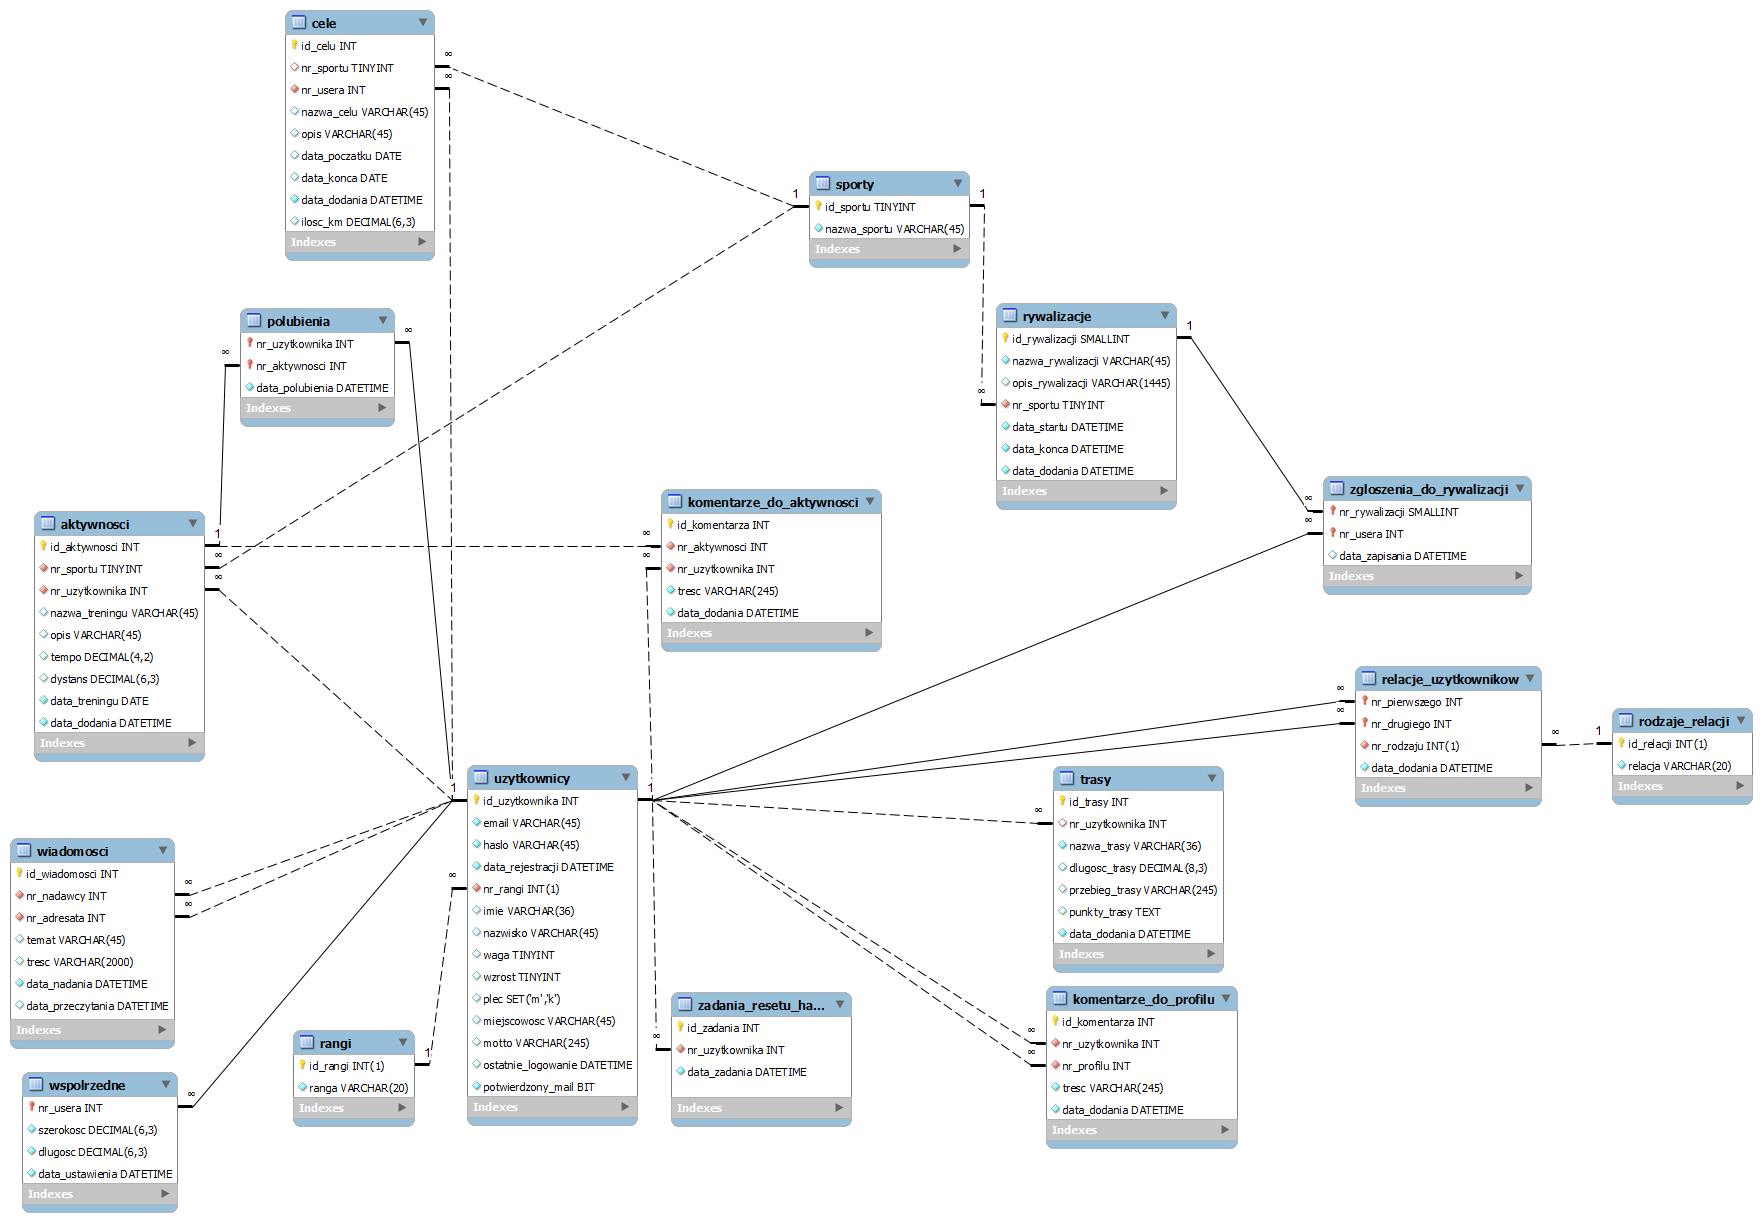
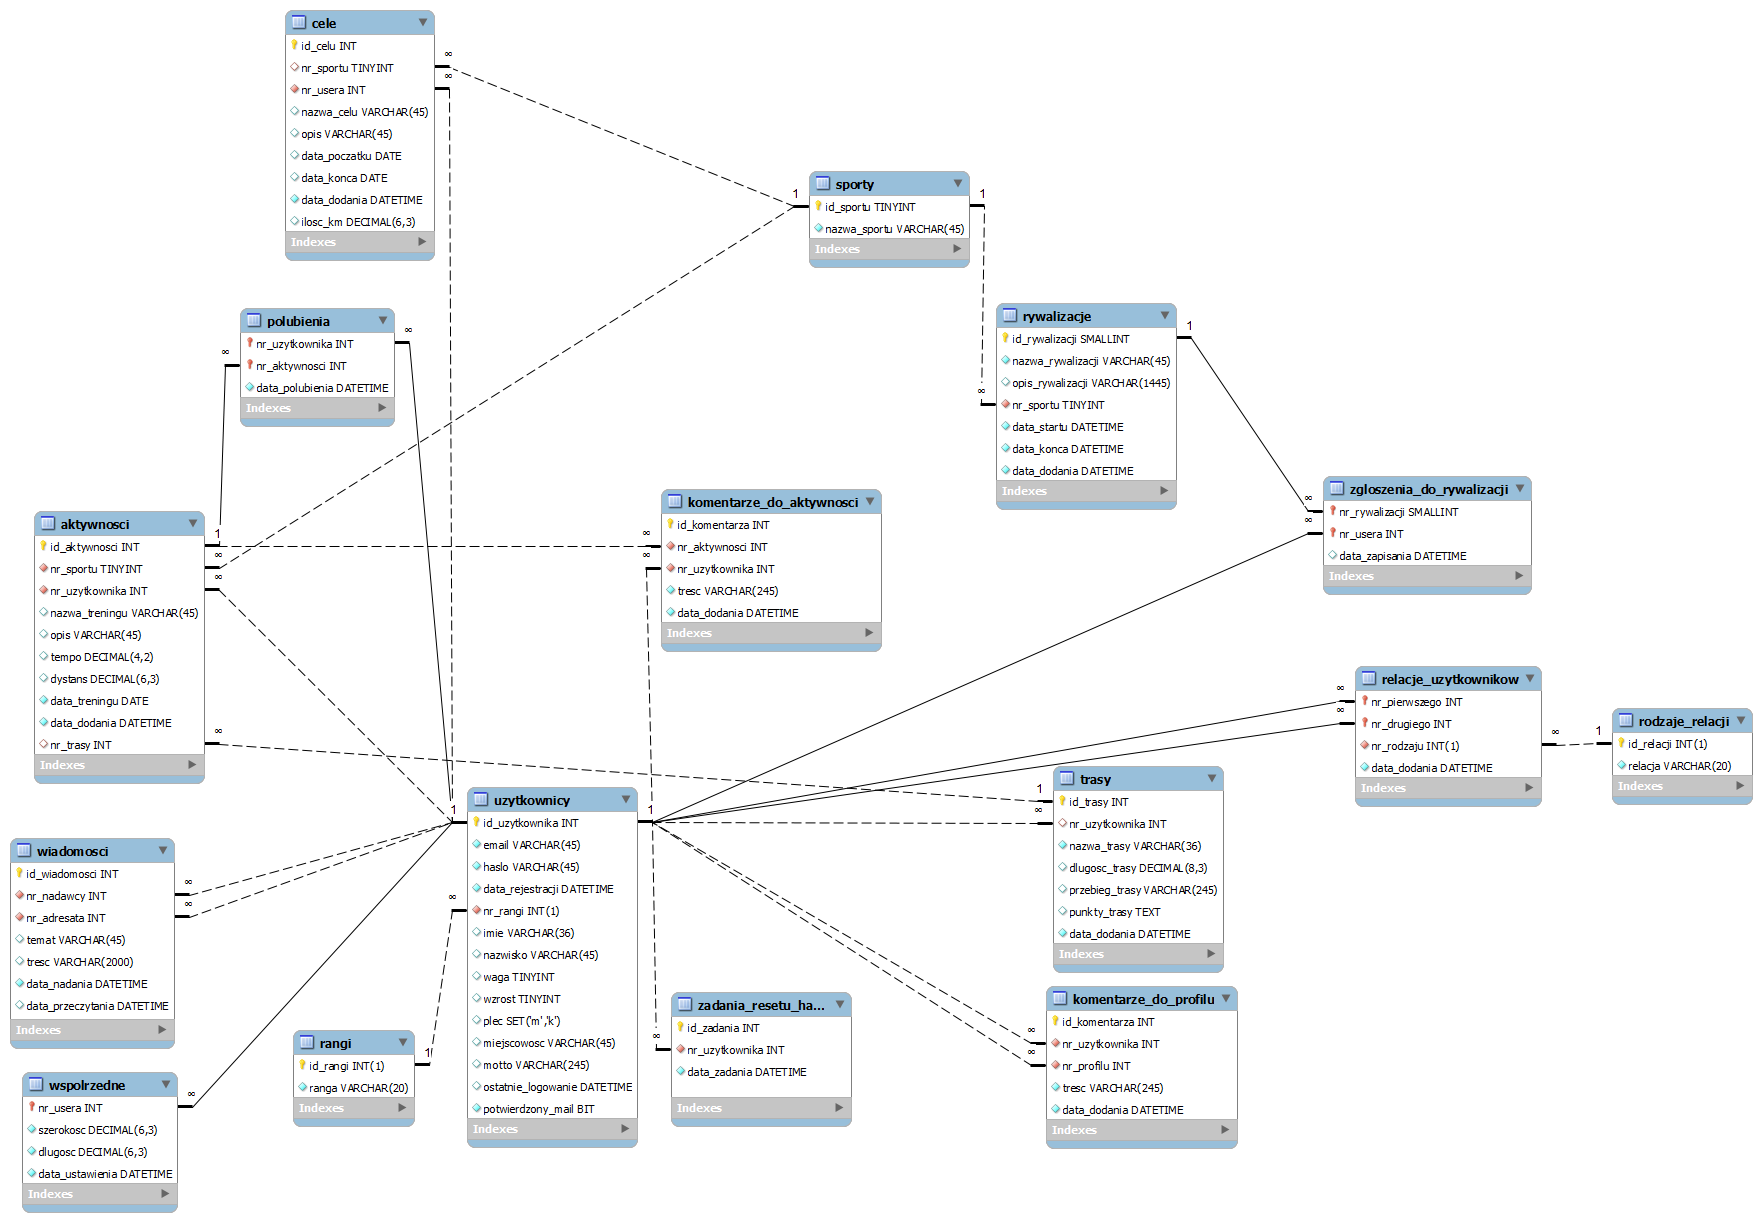
Relacje, chyba już bez zastrzeżeń
+ poprawka w SQL, by móc wiązać aktywności z trasami

diff --git a/Aplikacja/php/classes/my_usersRelations.php b/Aplikacja/php/classes/my_usersRelations.php
@@ -6,7 +6,11 @@
 		{
 			// Zwraca albo nazwę relacji, albo 0 w przypadku braku.
 			// Rodzaje relacji muszą zostać dodane do bazy, wymagane relacje to:
-			// Przyjaciel, Wróg, Rodzina 
+			// Przyjaciel, Wróg;
+			// Zwracane warości: 0, Przyjaciel, Wróg, ZaproszeniePrzychodzace, ZaproszenieWychodzace, Blokowany, Zablokowany
+			// Blokowany - u1 jest blokowany przez u2
+			// Zablokowany - u2 jest blokowany przez u1
+			// Wróg - wzajemna blokada
 			
 			try {
 				$stmt = $this -> pdo -> prepare('
@@ -18,21 +22,62 @@
 				$stmt -> bindValue(':nr_pierwszego', $id_userow['1st'], PDO::PARAM_STR);
 				$stmt -> bindValue(':nr_drugiego', $id_userow['2nd'], PDO::PARAM_STR);
 				$stmt -> execute();
-				if($stmt -> rowCount() == 1) {
-					$row = $stmt -> fetch();
+
+				$row = $stmt -> fetch();
 
 				$stmt -> closeCursor();
 				unset($stmt);
 
+				$stmt = $this -> pdo -> prepare('
+									SELECT relacja FROM relacje_uzytkownikow, rodzaje_relacji 
+									WHERE	id_relacji LIKE BINARY  nr_rodzaju AND 
+										nr_pierwszego LIKE BINARY :nr_drugiego AND 
+										nr_drugiego LIKE BINARY :nr_pierwszego'
+								);
+				$stmt -> bindValue(':nr_pierwszego', $id_userow['1st'], PDO::PARAM_STR);
+				$stmt -> bindValue(':nr_drugiego', $id_userow['2nd'], PDO::PARAM_STR);
+				$stmt -> execute();
+
+				$row2 = $stmt -> fetch();
+
+				$stmt -> closeCursor();
+				unset($stmt);
+
+				if(isset($row['relacja']) && isset($row2['relacja'])){
+					// relacja jest ustawiona u dwóch userów
+					// mogą być wrogami, albo przyjaciółmi
+					
+					if($row['relacja'] == $row2['relacja'])
 					return $row['relacja'];
 				}
-				else {
-				$stmt -> closeCursor();
-				unset($stmt);
-					return 0; // brak relacji
+				else if(isset($row['relacja']))
+				{
+					switch($row['relacja'])
+					{
+						case "Przyjaciel":
+							return "ZaproszenieWychodzace";
+						break;
+						case "Wróg":
+							return "Blokowany";
+						break;
+					}
 				}
-				
+				else if(isset($row2['relacja']))
+				{
+					switch($row2['relacja'])
+					{
+						case "Przyjaciel":
+							return "ZaproszeniePrzychodzace";
+						break;
+						case "Wróg":
+							return "Zablokowany";
+						break;
+					}
+				}
 
+				
+				return 0;
+				
 				}
 				catch(PDOException $e) {
 					echo '<p>Wystąpił błąd biblioteki PDO</p>';
@@ -64,13 +109,13 @@
 			// wzajemne relacje, więc Przyjaciele i wrogowie
 			if($relacja == "Przyjaciel" || $relacja == "Wrog")
 				$stmt = $this -> pdo -> prepare('
-								SELECT rel2.`nr_drugiego`
+								SELECT rel2.`nr_pierwszego`
 								FROM 	relacje_uzytkownikow AS rel1
 								RIGHT JOIN relacje_uzytkownikow AS rel2 
 								ON 	rel1.`nr_pierwszego` = rel2.`nr_drugiego`
 								WHERE 	rel1.`nr_pierwszego` = rel2.`nr_drugiego` AND 
 									rel1.`nr_drugiego` = rel2.`nr_pierwszego` AND 
-									rel1.`nr_pierwszego` NOT LIKE BINARY :nr_usera AND 
+									rel1.`nr_pierwszego` LIKE BINARY :nr_usera AND 
 									rel1.nr_rodzaju = (SELECT id_relacji
 										FROM rodzaje_relacji
 										WHERE relacja LIKE BINARY :relacja)
@@ -105,7 +150,7 @@
 										WHERE   rel.nr_rodzaju = (SELECT id_relacji
 												FROM rodzaje_relacji
 												WHERE relacja LIKE BINARY :relacja) AND
-											rel2.nr_drugiego = rel.nr_pierwszego    ) 
+											rel2.nr_drugiego = rel.nr_pierwszego    
 										)');
 
 		
@@ -136,22 +181,29 @@
 	
 		function ustaw_relacje($id_userow, $relacja)
 		{
-			$id_userow['1st'] > $id_userow['2nd'] ? list($id_userow['1st'],$id_userow['2nd']) = array($id_userow['2nd'], $id_userow['1st']) : "";
 			try {
-
-if($relacja == "Odblokuj" || $relacja == "Usun_znajomego") {
-				$stmt = $this -> pdo -> prepare('DELETE FROM relacje_uzytkownikow WHERE nr_pierwszego LIKE BINARY :nr_usera AND nr_drugiego LIKE BINARY :nr_drugiego');
+				if($relacja == "Usun_znajomego" || $relacja == "Odrzuc_zaproszenie") {
+				$stmt = $this -> pdo -> prepare('DELETE FROM relacje_uzytkownikow WHERE (nr_pierwszego LIKE BINARY :nr_usera AND nr_drugiego LIKE BINARY :nr_drugiego) OR (nr_pierwszego LIKE BINARY :nr_drugiego AND nr_drugiego LIKE BINARY :nr_usera)');
 				$stmt -> bindValue(':nr_usera', $id_userow['1st'], PDO::PARAM_STR);
 				$stmt -> bindValue(':nr_drugiego', $id_userow['2nd'], PDO::PARAM_STR);
 				$stmt -> execute();
 
 				$stmt -> closeCursor();
 				unset($stmt);				
-				if($relacja == "Odblokuj")	return 2;
-				else return 3;
-}
+				return $relacja == "Usun_znajomego" ? 3 : 4;
+				}
+				
 
+		if($relacja == "Odblokuj"){
+				$stmt = $this -> pdo -> prepare('DELETE FROM relacje_uzytkownikow WHERE (nr_pierwszego LIKE BINARY :nr_usera AND nr_drugiego LIKE BINARY :nr_drugiego)');
+				$stmt -> bindValue(':nr_usera', $id_userow['1st'], PDO::PARAM_STR);
+				$stmt -> bindValue(':nr_drugiego', $id_userow['2nd'], PDO::PARAM_STR);
+				$stmt -> execute();
 
+				$stmt -> closeCursor();
+				unset($stmt);
+				return 2;
+				}				
 
 $stmt = $this -> pdo -> prepare('SELECT id_relacji FROM rodzaje_relacji WHERE relacja LIKE BINARY :relacja');
 				$stmt -> bindValue(':relacja', $relacja, PDO::PARAM_STR);
@@ -181,6 +233,42 @@ $stmt = $this -> pdo -> prepare('SELECT id_relacji FROM rodzaje_relacji WHERE re
 				//echo '<p>Wystąpił błąd biblioteki PDO</p>';
 				return 0;
 			}
+		}
+
+		function ileZaproszenPrzychodzacych()
+		{
+			try {
+				$stmt = $this -> pdo -> prepare('
+					SELECT rel.nr_pierwszego FROM relacje_uzytkownikow AS rel
+					WHERE  rel.nr_rodzaju = (SELECT id_relacji
+									FROM rodzaje_relacji
+									WHERE relacja LIKE BINARY :relacja) AND
+						rel.nr_drugiego LIKE BINARY :nr_usera AND 
+						rel.nr_drugiego NOT IN 
+							(SELECT rel2.nr_pierwszego 
+							FROM 	relacje_uzytkownikow AS rel2
+							WHERE   rel.nr_rodzaju = (SELECT id_relacji
+									FROM rodzaje_relacji
+									WHERE relacja LIKE BINARY :relacja) AND
+								rel2.nr_drugiego = rel.nr_pierwszego    
+							)');
+
+		
+				$stmt -> bindValue(':nr_usera', $_SESSION['WiRunner_log_id'], PDO::PARAM_STR);
+				$stmt -> bindValue(':relacja', "Przyjaciel", PDO::PARAM_STR);
+				$stmt -> execute();
+				
+				$res = $stmt -> rowCount();
+					
+				$stmt -> closeCursor();
+				unset($stmt);
+
+				return $res;
+
+				}
+			catch(PDOException $e) {
+				echo '<p>Wystąpił błąd biblioteki PDO</p>';
+			}			
 		}
 
 	}

diff --git a/Aplikacja/profil.php b/Aplikacja/profil.php
@@ -5,6 +5,7 @@
 		header("Location: szukaj.php");
 
 	$userInfo = $my_simpleDbCheck->getUserInfo($_GET['uid']);
+
 	if(!empty($_GET['relacja'])) {
 		$res = $my_usersRelations->ustaw_relacje(array('1st'=>$_SESSION['WiRunner_log_id'], '2nd'=> $_GET['uid']), ucfirst($_GET['relacja']));
 		if($res == 1)
@@ -13,6 +14,8 @@
 		 echo '<div class="ok_msg">Użytkownik odblokowany!</div>';
 		else if($res == 3)
 		 echo '<div class="ok_msg">Użytkownik został usunięty z listy znajomych!</div>';
+		else if($res == 4)
+		 echo '<div class="ok_msg">Zaproszenie zostało odrzucone!</div>';
 	}
 	
 	if(isset($_POST['dodajKomentarz'])){
@@ -24,7 +27,13 @@
 								     	'rodzaj' => $_POST['rodzaj']
 									));
 	}
-	//$my_simpleDbCheck->userIssetFromId($_GET['uid']);	
+
+if ($_GET['uid'] != $_SESSION['WiRunner_log_id']){
+	$rodzajRelacji = $my_usersRelations->zwroc_typ(array('1st'=>$_SESSION['WiRunner_log_id'], '2nd'=> $_GET['uid']));
+//	echo $rodzajRelacji;
+	}
+	
+	
 ?>
 		<article>
 			<section>
@@ -36,28 +45,29 @@
 					else
 						echo $userInfo['imie'].' '.$userInfo['nazwisko'];
 					?></h2>
+					<? if(!empty($userInfo['motto'])) echo '<span style="margin-left: 1cm; font-style: italic; font-size: 12px;">'.$userInfo['motto'] .'</span>'; ?>
 					<div style="margin-top:30px;">
 						
 						
 						<?php
-							if ($_GET['uid'] != $_SESSION['WiRunner_log_id']) {
-						
-								$rodzaj = $my_usersRelations->zwroc_typ(array('1st'=>$_SESSION['WiRunner_log_id'], '2nd'=> $_GET['uid']));
-								if($rodzaj)
-								//echo "Wasza relacja: ". $rodzaj . "<br/>";
-								if($rodzaj === 0)
+							if(isset($rodzajRelacji))
+							{
+								if($rodzajRelacji === 0)
 									echo '<input type="button" value="Zablokuj" onclick="document.location.href=\'profil.php?uid='.$_GET['uid'].'&relacja=wróg\'" />';
-								if($rodzaj !== "Wróg")
+
+								if(!in_array($rodzajRelacji, array("Wróg","Blokowany")))
 									echo '<input type="button" value="Prywatna wiadomość" onclick="document.location.href=\'konto.php?subPage=poczta&action=writeMsg&uid='.$_GET['uid'].'\'" />';
 								else    echo '<input type="button" value="Odblokuj" onclick="document.location.href=\'profil.php?uid='.$_GET['uid'].'&relacja=odblokuj\'" />';
 
-								if($rodzaj === "Przyjaciel")
+								if($rodzajRelacji === "Przyjaciel")
 									echo '<input type="button" value="Usuń znajomego" onclick="document.location.href=\'profil.php?uid='.$_GET['uid'].'&relacja=usun_znajomego\'" />';
-
-								if($rodzaj === 0)
+				
+								if($rodzajRelacji === "ZaproszenieWychodzace")
+								echo '<input type="button" value="Zaproszenie wysłane">';
+								else if(($rodzajRelacji === 0 || $rodzajRelacji === "ZaproszeniePrzychodzace"))
 									echo '<input type="button" value="Dodaj znajomego" onclick="document.location.href=\'profil.php?uid='.$_GET['uid'].'&relacja=przyjaciel\'" />';
-						
 							}
+							
 						?>
 					</div>
 				</div>

diff --git a/Aplikacja/konto.php b/Aplikacja/konto.php
@@ -26,7 +26,7 @@ if(!$my_userAction->get_coordinates(1))
 					echo '<li><a ';
 					if (isset($_GET['subPage']) && $link == $_GET['subPage'])
 						echo 'class="act" ';
-					echo 'href="'.my_getFilename::normal().'?subPage='.$link.'">'.$pack[0].'</a></li>';
+					echo 'href="'.my_getFilename::normal().'?subPage='.$link.'">'.$pack[0].'</a> '.(($link=="zaproszenia")?'('.$my_usersRelations->ileZaproszenPrzychodzacych().')':'').'</li>';
 
 					if ($pack[1] != NULL) {
 						echo '<ul class="actionLinks">';
@@ -76,9 +76,7 @@ if(!$my_userAction->get_coordinates(1))
 					if ($my_userAction->get_tracks() == 0) {
 						echo '<p>Nie posiadasz zapisanych tras...</p>';
 					}
-?>
-				
-<?php
+
 				break;
 				case 'poczta':
 					if (isset($_GET['msg']) && $_GET['msg'] == 'justSendMsg')
@@ -177,6 +175,42 @@ if(!$my_userAction->get_coordinates(1))
 				
 <?php
 				break;
+				case 'przyjaciele':
+					$przyjaciele = $my_usersRelations->znajdz_userow_w_relacji($_SESSION['WiRunner_log_id'], "Przyjaciel");
+					if (!$przyjaciele) {
+						echo 'Nie masz jeszcze żadnych przyjaciół!'; 
+						break; 
+					}
+			
+					echo "<ul>";				
+					foreach($przyjaciele as $uid)
+					{
+						$user_info = $my_comments->getUserInfo($uid);
+						echo '<li><a href="profil.php?uid='.$uid.'">'.((isset($user_info['imie']))? $user_info['imie'] . ' ' . $user_info['nazwisko'] : $user_info['email']) . '</a></li>';
+					}
+					echo "</ul>";
+
+				break;
+				case 'zaproszenia':
+				$zaproszenia = $my_usersRelations->znajdz_userow_w_relacji($_SESSION['WiRunner_log_id'], "Zaproszony");
+					if (!$zaproszenia) {
+						echo 'Nie masz przychodzących zaproszeń!'; 
+						break; 
+					}
+			
+					echo "<ul>";				
+					foreach($zaproszenia as $uid)
+					{
+						$user_info = $my_comments->getUserInfo($uid);
+						echo '<li><a href="profil.php?uid='.$uid.'">'.((isset($user_info['imie']))? $user_info['imie'] . ' ' . $user_info['nazwisko'] : $user_info['email']) . '</a>';
+								
+						echo '<a href="profil.php?uid='.$uid.'&relacja=przyjaciel">Akceptuj zaproszenie</a> / <a href="profil.php?uid='.$uid.'&relacja=odrzuc_zaproszenie">Odrzuć zaproszenie</a>';
+						
+
+						echo '</li>';
+					}
+					echo "</ul>";
+				break;	
 			}
 		}
 ?>

diff --git a/Aplikacja/php/classes/my_siteTitle.php b/Aplikacja/php/classes/my_siteTitle.php
@@ -28,6 +28,8 @@
 				'edytujprofil'	=>	array('Edytuj swoje dane', NULL),
 				'trasy'			=>	array ('Trasy', NULL),
 				'poczta'		=>	array ('Poczta', NULL),
+				'przyjaciele'		=>	array ('Przyjaciele', NULL),
+				'zaproszenia'		=>	array ('Zaproszenia', NULL),
 			);
 
 			$this -> admin_links = array(
